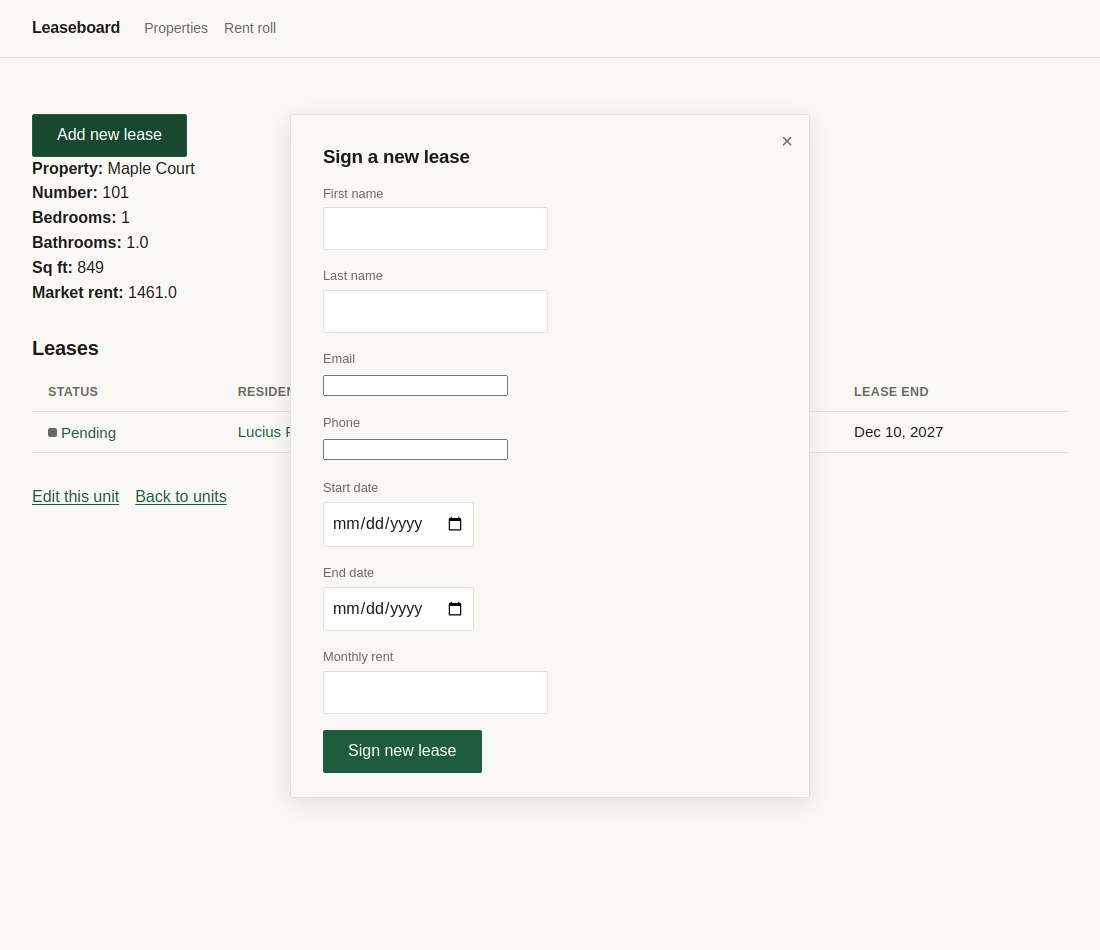
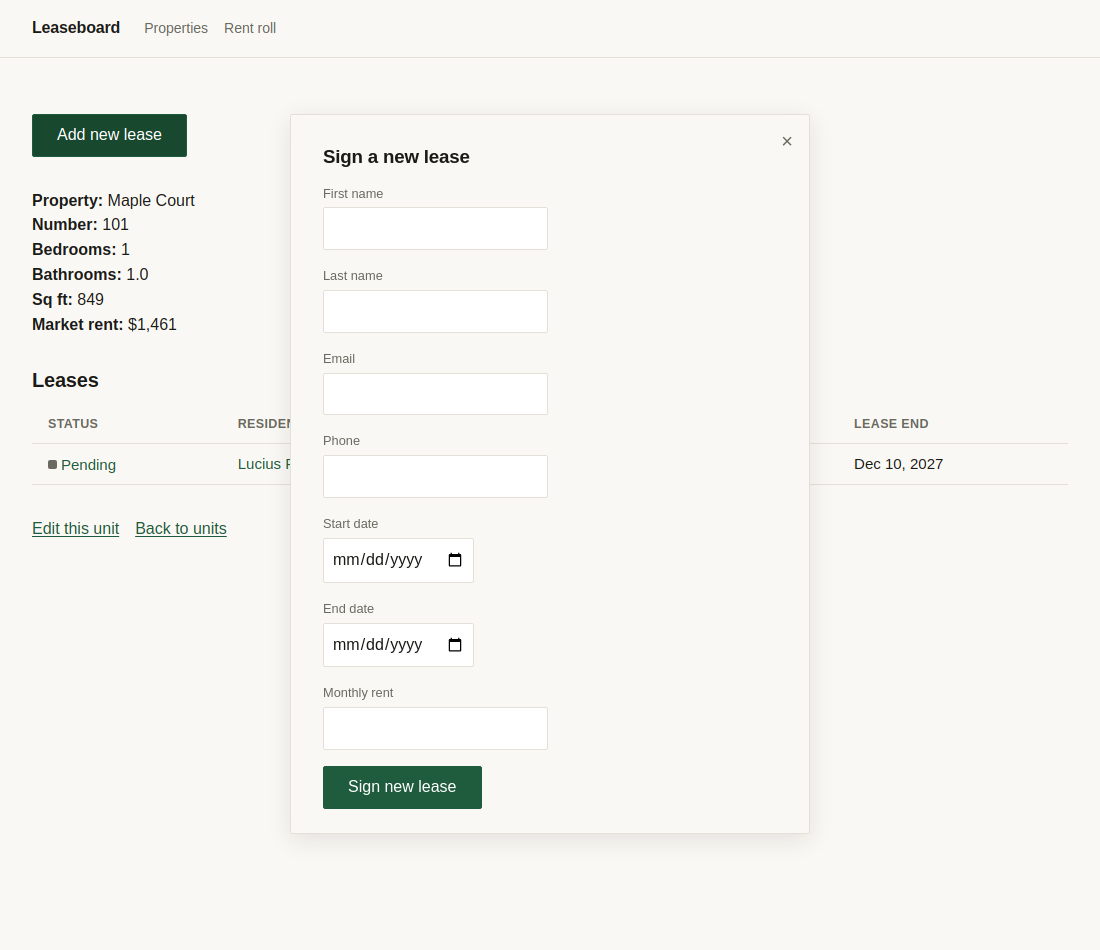
admin: style email/phone inputs, space the add-lease button, format market rent
Review fixes on the unit page (#84):
- include email and tel inputs in the shared text-input styling
- add spacing between the "Add new lease" button and the unit details
- format Market rent with the shared money helper ($1,461)

diff --git a/apps/admin/app/assets/stylesheets/application.css b/apps/admin/app/assets/stylesheets/application.css
@@ -101,7 +101,7 @@ td a:hover { text-decoration: underline; }
 form { max-width: var(--measure); }
 .rent-roll-filter { display: flex; flex-wrap: wrap; align-items: end; gap: var(--space-3); margin-bottom: var(--space-4); }
 label { display: block; font-size: 0.8rem; color: var(--text-secondary); margin-bottom: var(--space-1); }
-input[type="text"], input[type="date"], input[type="number"], select {
+input[type="text"], input[type="email"], input[type="tel"], input[type="date"], input[type="number"], select {
   font: inherit;
   padding: var(--space-2) var(--space-2);
   border: 1px solid var(--rule);
@@ -189,3 +189,6 @@ dialog.panel h3 { margin-top: 0; }
   border-left: 2px solid var(--status-vacant-available);
   color: var(--status-vacant-available);
 }
+
+/* Space between the "Add new lease" button and the unit details below it. */
+[data-controller="new-lease"] { margin-bottom: var(--space-5); }
